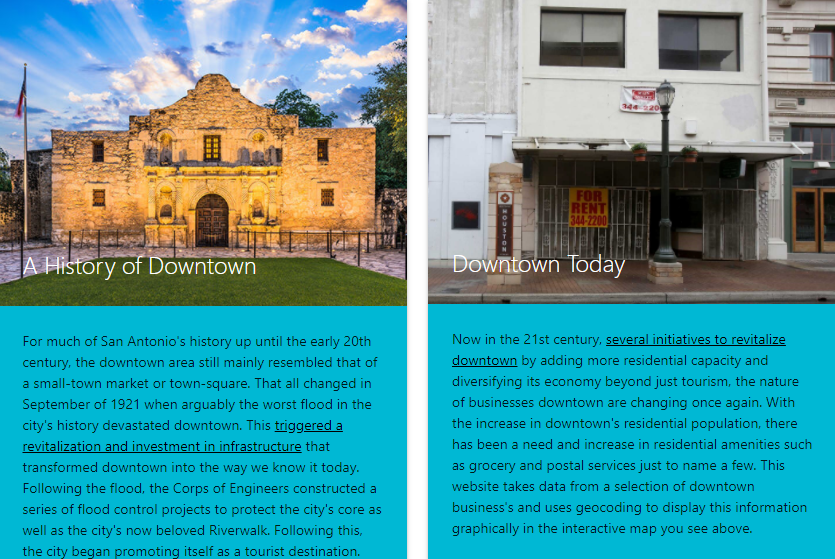
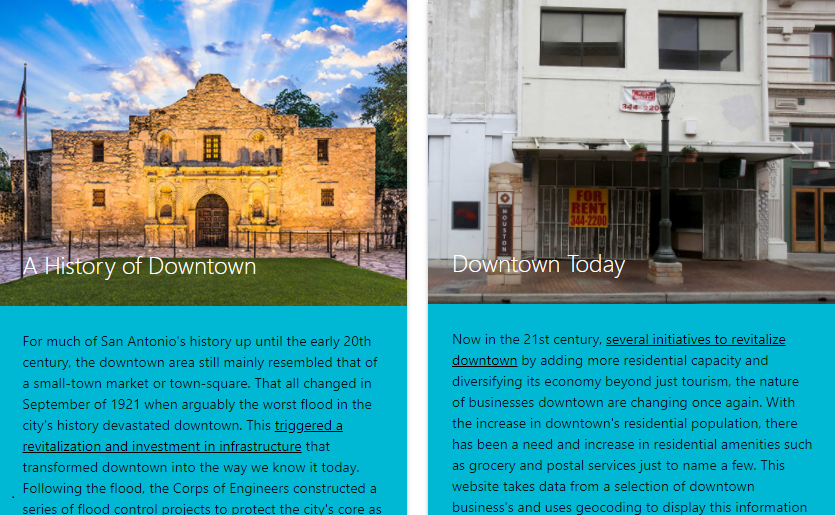
resized images to all match

diff --git a/index.html b/index.html
@@ -36,12 +36,12 @@
       <!-- Project Title, Image, Info, & Link -->
       <!-- HW 1 Title, Image, Info, & Link -->
       <!-- HW 2 Title, Image, Info, & Link -->
-  <div class="row">
+  <div class="row card-row">
     <div class="col s4">
       <div class="card">
         <div class="card-image">
           <img src="Assets/projectimg.jpg">
-          <span class="card-title">Card Title</span>
+          <span class="card-title">Small Business Geocoding</span>
         </div>
         <div class="card-content">
           <p>I am a very simple card. I am good at containing small bits of information.
@@ -56,7 +56,7 @@
       <div class="card">
         <div class="card-image">
           <img src="Assets/weatherdash.jpg">
-          <span class="card-title">Card Title</span>
+          <span class="card-title">Weather Dashboard</span>
         </div>
         <div class="card-content">
           <p>I am a very simple card. I am good at containing small bits of information.
@@ -71,7 +71,7 @@
       <div class="card">
         <div class="card-image">
           <img src="Assets/planner.jpg">
-          <span class="card-title">Card Title</span>
+          <span class="card-title">Day Planner</span>
         </div>
         <div class="card-content">
           <p>I am a very simple card. I am good at containing small bits of information.

diff --git a/Assets/style.css b/Assets/style.css
@@ -9,3 +9,6 @@
     border-width: 2px;
     font-family:'Lucida Sans', 'Lucida Sans Regular', 'Lucida Grande', 'Lucida Sans Unicode', Geneva, Verdana, sans-serif;
 }
+.card-row{
+    width: 90%;
+}
